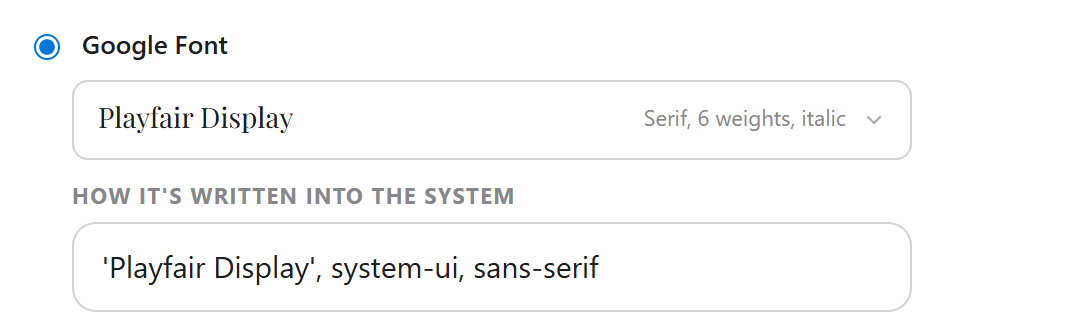
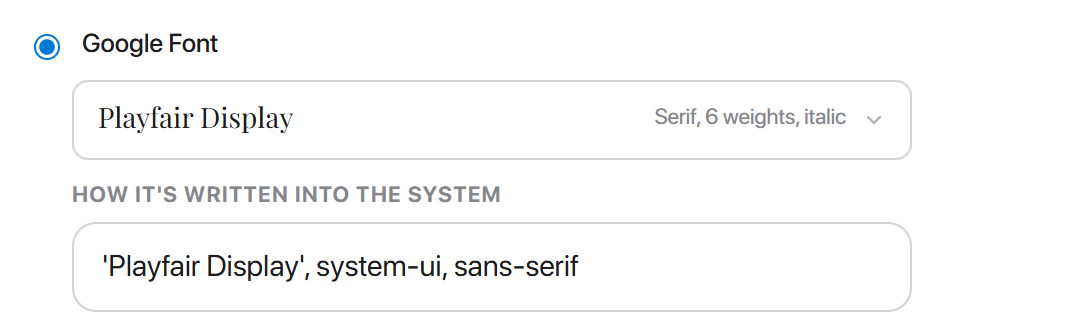
theme: bring back the Apple font stack
Reverts the font-family portion of 0d61255 (branding: drop Apple naming from
shipped theme and cart): -apple-system, BlinkMacSystemFont, 'SF Pro Display'
and 'SF Pro Text' are back in the client-area default stack (core-theme.css +
typography.php), the System fonts stack, and the Self-hosted font's "keep
the system font on Apple" prefix -- plus the admin panel's own UI font
(admin.css), and the visible admin copy in the Typography panel that used to
name San Francisco/Apple explicitly.

Left the internal plumbing alone on purpose: the systemPrefix/ff_folder_system
field and attribute names, the .hadrian-table/.hp-hadrian-* class renames, and
the core-theme.css/core-layout.css filenames from the same commit. None of
that is visible to a buyer, and touching it would mean also touching the JS
that reads those names for no visible benefit.

Docs: reverted the Style Manager article's Font Family section and its 5
screenshots to match, back in sync with the restored code.

Bumps the module version to cache-bust admin.css and core-theme.css.

diff --git a/hadrian/templates/hadrian/assets/css/core-theme.css b/hadrian/templates/hadrian/assets/css/core-theme.css
@@ -200,7 +200,7 @@
     --pagination-radius: var(--radius-sm);
     --transition-fast: 150ms cubic-bezier(0.25, 0.1, 0.25, 1);
     --transition-medium: 250ms cubic-bezier(0.25, 0.1, 0.25, 1);
-    --font-family: system-ui, 'Inter', 'Segoe UI', Roboto, Oxygen, Ubuntu, Cantarell, 'Helvetica Neue', Helvetica, Arial, sans-serif;
+    --font-family: -apple-system, BlinkMacSystemFont, 'SF Pro Display', 'SF Pro Text', 'Inter', 'Segoe UI', Roboto, Oxygen, Ubuntu, Cantarell, 'Helvetica Neue', Helvetica, Arial, sans-serif;
     /* ui-monospace leads: the standard generic resolves to whatever the visitor's
        own OS uses as its UI monospace face, so no vendor font name is listed. */
     --font-mono: ui-monospace, Menlo, monospace;

diff --git a/hadrian/modules/addons/Hadrian/views/adminarea/assets/css/admin.css b/hadrian/modules/addons/Hadrian/views/adminarea/assets/css/admin.css
@@ -65,7 +65,7 @@ body:has(#mt-admin-root) h1:not(.mt-page-title) { display: none !important; }
 
     background: var(--mt-bg);
     color: var(--mt-text);
-    font-family: system-ui, "Open Sans", "Segoe UI", sans-serif;
+    font-family: -apple-system, BlinkMacSystemFont, "SF Pro Text", "SF Pro Display", "Open Sans", "Segoe UI", system-ui, sans-serif;
     font-size: 14px;
     line-height: 1.5;
     -webkit-font-smoothing: antialiased;

diff --git a/hadrian/templates/hadrian/core/config/typography.php b/hadrian/templates/hadrian/core/config/typography.php
@@ -13,22 +13,22 @@
 return [
     'fontFamily' => [
         'var'      => '--font-family',
-        'default'  => "system-ui, 'Inter', 'Segoe UI', Roboto, Oxygen, Ubuntu, Cantarell, 'Helvetica Neue', Helvetica, Arial, sans-serif",
+        'default'  => "-apple-system, BlinkMacSystemFont, 'SF Pro Display', 'SF Pro Text', 'Inter', 'Segoe UI', Roboto, Oxygen, Ubuntu, Cantarell, 'Helvetica Neue', Helvetica, Arial, sans-serif",
         // Appended after a chosen Google/bundled/uploaded font so glyph coverage
         // degrades gracefully. Short + clean: `system-ui` (the visitor's OS font)
-        // then the generic family.
+        // then the generic family. No BlinkMacSystemFont.
         'fallback' => "system-ui, sans-serif",
         // "System fonts" mode: each visitor's OWN OS font, no webfont loaded
-        // (Segoe UI on Windows, the platform UI face elsewhere). Uses the single
-        // modern `system-ui` keyword -- the browser resolves it to whatever the
-        // device's own interface font is, so no vendor-specific keyword has to
-        // be listed ahead of it.
-        'system'   => "system-ui, 'Segoe UI', Roboto, sans-serif",
-        // "System-first mix": prepended to a chosen font so the device's own UI
-        // font leads the stack and the chosen font sits behind it as the
-        // fallback. This is exactly what 'default' does (system font first,
-        // bundled Inter behind it), generalized to any picked font.
-        'systemPrefix' => "system-ui",
+        // (Segoe UI on Windows, San Francisco on Apple, system default on Linux).
+        // Uses the modern `system-ui` keyword (the OS UI font) rather than the
+        // legacy `-apple-system, BlinkMacSystemFont` incantation; `-apple-system`
+        // stays only as a Safari backstop. No BlinkMacSystemFont.
+        'system'   => "system-ui, -apple-system, 'Segoe UI', Roboto, sans-serif",
+        // "Apple-first mix": prepended to a chosen font so San Francisco wins on
+        // Apple while the font loads only on the other platforms. This is exactly
+        // what 'default' does (SF on Apple, bundled Inter elsewhere), generalized
+        // to any Google/bundled/uploaded font via the per-source "apple" flag.
+        'systemPrefix' => "-apple-system, BlinkMacSystemFont",
     ],
 
     // Font-size tokens (px), grouped for the admin form. var === the CSS custom property.
@@ -135,9 +135,9 @@ return [
     'googleWeights' => [300, 400, 500, 600, 700],
 
     // Theme-shipped, self-hosted fonts (zero external request) the configurator
-    // can offer alongside buyer uploads. Combined with the system-first flag this
-    // reproduces 'default' exactly: the device's own UI font leads, bundled
-    // Inter sits behind it. 'face' = emit an @font-face at render; Inter's is
+    // can offer alongside buyer uploads. Combined with the "apple" flag this
+    // reproduces 'default' exactly: Bundled Inter + Apple-first === SF on Apple,
+    // bundled Inter elsewhere. 'face' = emit an @font-face at render; Inter's is
     // already declared in core-theme.css, so it stays false (no duplicate).
     'bundledFonts' => [
         ['file' => 'InterVariable.woff2', 'family' => 'Inter', 'label' => 'Inter (bundled)', 'weight' => '100 900', 'face' => false],

diff --git a/hadrian/modules/addons/Hadrian/Hadrian.php b/hadrian/modules/addons/Hadrian/Hadrian.php
@@ -45,7 +45,7 @@ function Hadrian_config()
         'description' => 'Manages Hadrian client-area templates. <a href="https://your-domain.com/" target="_blank">Learn more</a>',
         'author'      => '<a href="https://your-domain.com" target="_blank">Your Studio</a>',
         'language'    => 'english',
-        'version'     => '1.2.2',
+        'version'     => '1.2.3',
         'fields'      => [
             'dbrollback' => [
                 'FriendlyName' => 'Database Clear',

diff --git a/hadrian-documentation/content/client-theme/04-styles.md b/hadrian-documentation/content/client-theme/04-styles.md
@@ -171,14 +171,15 @@ One typeface is applied across the whole client area - there is no separate head
 
 The shipped stack, and the only mode that writes no variable at all - the value already in the theme's stylesheet stands.
 
-That value asks for the visitor's own system font first, so each platform uses its native face. Everywhere it does not recognise, it falls through to **Inter**, which ships inside the theme and is already declared, so nothing is fetched over the network.
+That value asks for San Francisco first, so Apple devices use their system face. Everywhere else it falls through to **Inter**, which ships inside the theme and is already declared, so nothing is fetched over the network.
 
 ```css
-system-ui, 'Inter', 'Segoe UI', Roboto, Oxygen, Ubuntu, Cantarell,
-'Helvetica Neue', Helvetica, Arial, sans-serif
+-apple-system, BlinkMacSystemFont, 'SF Pro Display', 'SF Pro Text',
+'Inter', 'Segoe UI', Roboto, Oxygen, Ubuntu, Cantarell, 'Helvetica Neue',
+Helvetica, Arial, sans-serif
 ```
 
-Leave it here unless you have a brand typeface. It is the fastest of the four and looks native on every platform.
+Leave it here unless you have a brand typeface. It is the fastest of the four and looks native on Apple hardware.
 
 #### System fonts
 
@@ -187,10 +188,10 @@ Leave it here unless you have a brand typeface. It is the fastest of the four an
 Every visitor sees their own operating system's interface font. Segoe UI on Windows, San Francisco on Mac and iOS, the system default on Linux.
 
 ```css
-system-ui, 'Segoe UI', Roboto, sans-serif
+system-ui, -apple-system, 'Segoe UI', Roboto, sans-serif
 ```
 
-`system-ui` is the modern keyword for "whatever this OS uses for its own interface" - the same three faces named above, resolved with one keyword instead of one per platform.
+`system-ui` is the modern keyword for "whatever this OS uses for its own interface". `-apple-system` follows it only as a backstop for older Safari.
 
 No `<link>` and no `@font-face` are emitted, so **nothing downloads at all**.
 
@@ -198,7 +199,7 @@ No `<link>` and no `@font-face` are emitted, so **nothing downloads at all**.
 Text paints on the first frame because there is no font to wait for, and the client area matches the surrounding OS. Pick this when speed matters more than exact brand typography.
 :::
 
-In practice this looks almost identical to **Default** - both lead with `system-ui`, so most visitors see the same face either way. The difference is in the fallback tail: Default's stack ends in Inter, bundled with the theme, for the rare browser that does not recognise `system-ui`; System fonts has no such backstop.
+The difference from **Default** is narrow but real: Default prefers Inter on Windows and Linux, giving you the same face across non-Apple platforms; System fonts gives each platform its own.
 
 #### Google Font
 
@@ -260,13 +261,13 @@ Hadrian looks for `woff2`, `woff`, `ttf` and `otf`, in that order, and uses the 
 The rule declares `font-weight: 100 900`, which is correct for a **variable** font and wrong for a static one. Upload a variable file if you have it. With a static single-weight file the browser will synthesise the other weights, and bold text will look smeared.
 :::
 
-**Keep the device's own system font first** is offered on this mode only. Ticking it puts `system-ui` at the front of the stack, so every visitor's own OS font - San Francisco on Mac and iOS, Segoe UI on Windows, and so on - takes priority everywhere, with your uploaded font as the fallback behind it. Useful when you would rather every platform keep its native feel and only fall back to your brand font where the browser cannot resolve a system font at all.
+**Keep the device's system font on Apple** is offered on this mode only. Ticking it puts `-apple-system, BlinkMacSystemFont` at the front of the stack, so Apple devices keep San Francisco and your face is used everywhere else - useful when your brand font exists mainly to replace the plain Windows default.
 
 #### How it's written into the system
 
 Three of the four modes show this field beneath them - System fonts, Google Font and Self-hosted font. Default has none, because (as above) it writes no variable at all. Where it appears, it is **editable, not a preview**: whatever it contains is exactly what gets written to `--font-family`.
 
-The two halves are independent. The radio button decides what gets **loaded** - the Google stylesheet, the `@font-face`, or nothing. This field decides what gets **applied**. That is what lets the system-font-first trick on Self-hosted font work: the uploaded font still downloads, but the stack asks for the visitor's own OS font first, so only a browser that cannot resolve `system-ui` at all ever falls through to it.
+The two halves are independent. The radio button decides what gets **loaded** - the Google stylesheet, the `@font-face`, or nothing. This field decides what gets **applied**. That is what lets the Apple-first trick work: the font still downloads, but the stack asks for San Francisco first, so only non-Apple devices ever use it.
 
 Edit it if you need a fallback the defaults do not give you - a specific CJK face, say, or a monospace stack. Only letters, digits, spaces, commas, quotes and hyphens ever reach the live page; anything else is silently dropped whenever the front-end page head is built, not when you save the form.
 
